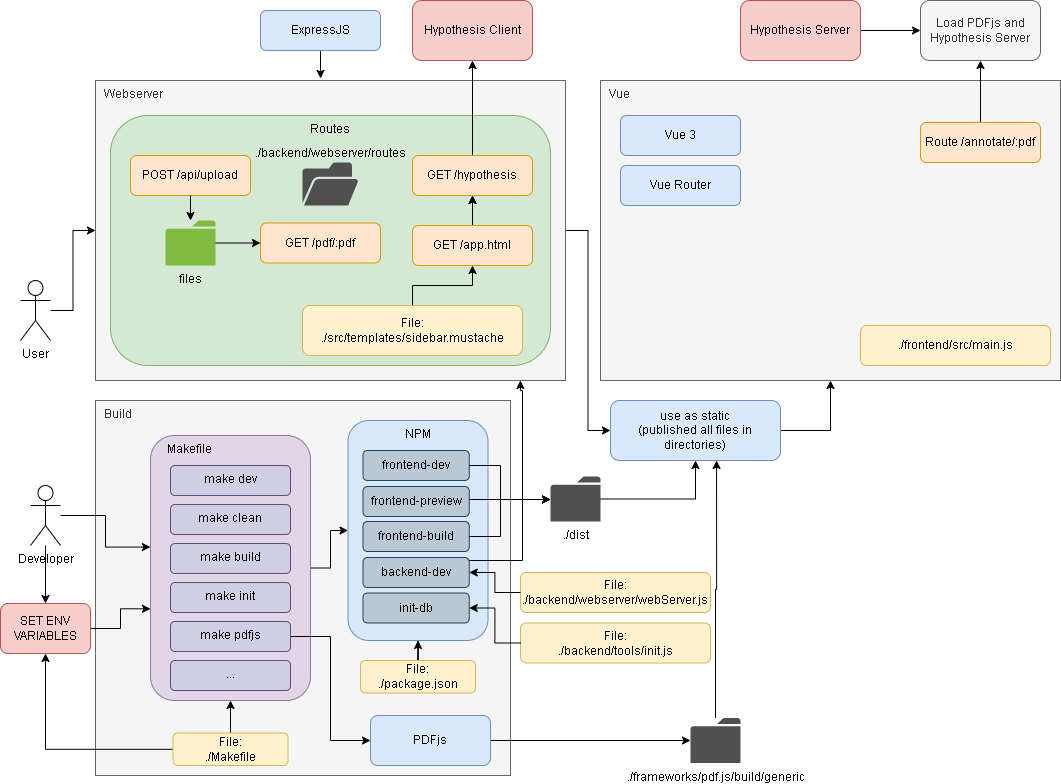
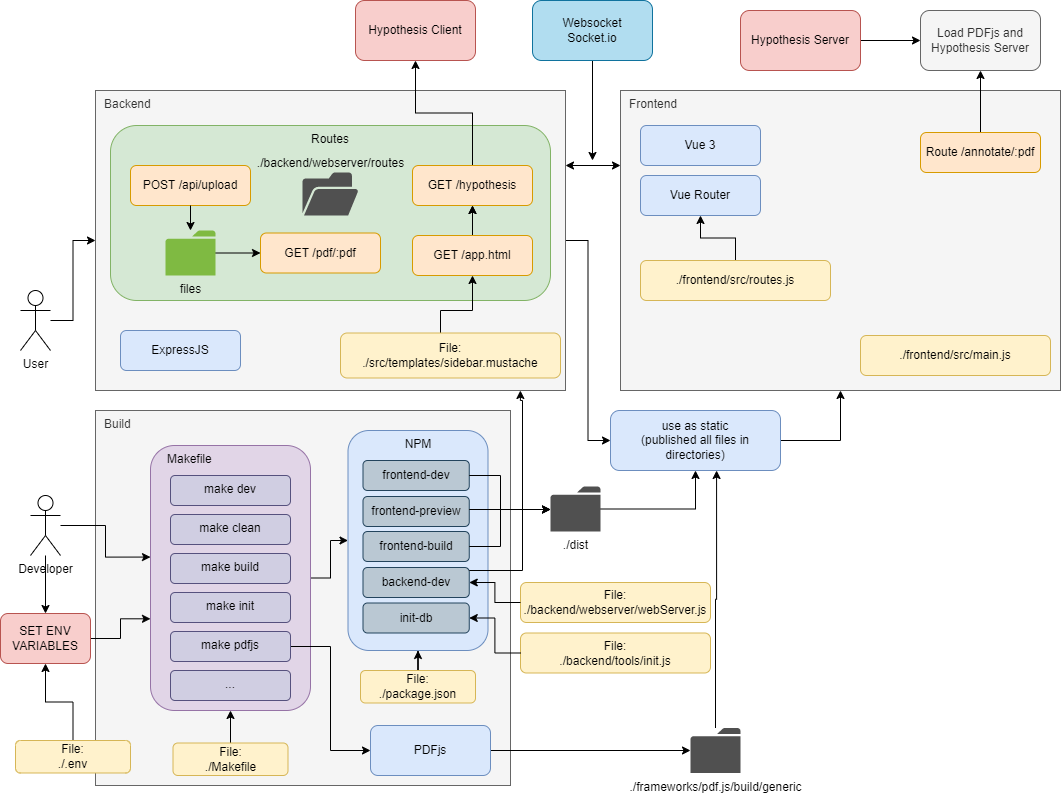
update documentation

diff --git a/content-server/README.md b/content-server/README.md
@@ -1,7 +1,7 @@
 # Content Server
 
 ## Description
-This directory contains all files to serve the frontend website to the user.
+This directory contains all files to serve the website to the user.
 
 ## Architecture
 For an overview of the complete architecture, see ./docs/architecture.drawio\
@@ -92,13 +92,23 @@ In case of doubt you can use `make services`.
 5. Get Client ID and add it into the Makefile!
 
 ## Frameworks
+
+See also the architecture overview for further information how the frameworks interact!
+
+### Frontend
+
+- [Vue 3](https://vuejs.org/) - Progressive JavaScript Framework
+  - [Vuex](https://vuex.vuejs.org/) - State Management
+  - [Vue Router](https://router.vuejs.org/) - Official Router for Vue.js
+  - [Vue 3 - socket.io](https://www.npmjs.com/package/vue-3-socket.io) - Socket.io Client for Vue3
+  - [Vue 3 - bootstrap](https://www.npmjs.com/package/bootstrap-vue-3) - Bootstrap for Vue 3
+  
+### Backend
 - [Git Submodules](http://git-scm.com/book/en/v2/Git-Tools-Submodules) are used to include the following frameworks:
     - [PDFjs](https://mozilla.github.io/pdf.js) - to display the PDFs
     - [Hypothesis](https://web.hypothes.is/) - to annotating text in the PDFs
   
-__Note__: See also the architecture overview for further information how the frameworks interact!
-
-### Build Frameworks individually
+### Build Backend Frameworks individually
 
     make pdfjs     # build PDFjs Framework
     make h_client  # build Hypothesis Client
